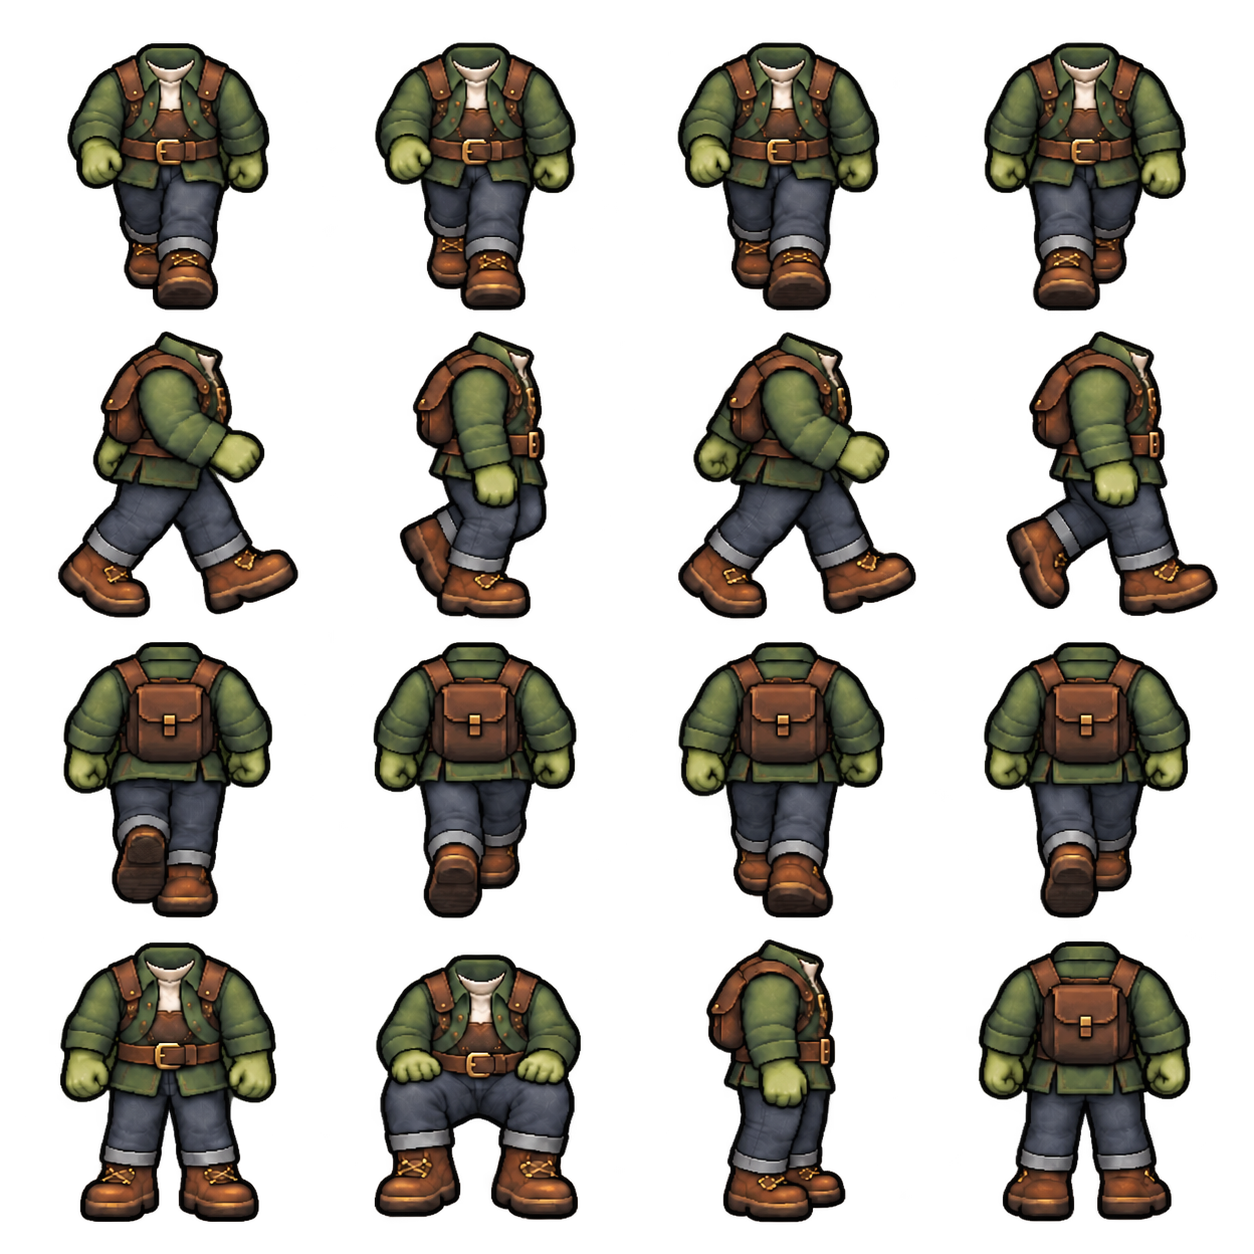
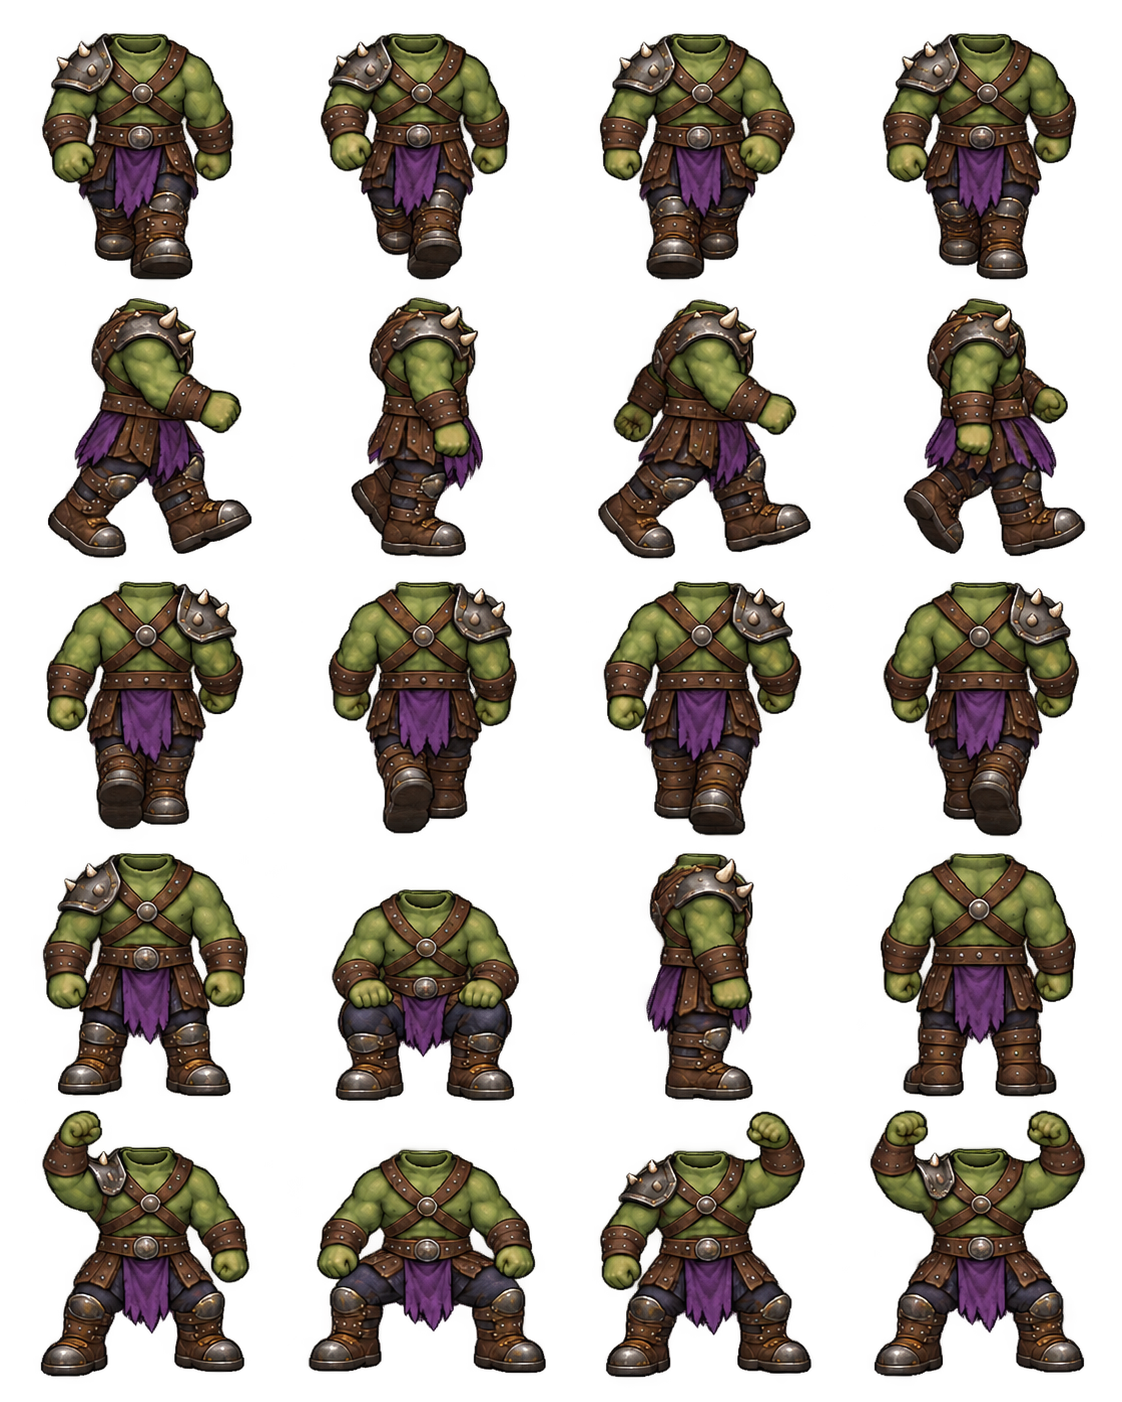
feat: give woman and orc distinct character artwork

diff --git a/public/avatar-art.js b/public/avatar-art.js
@@ -1,8 +1,8 @@
 // Shared artwork for the lobby, office and prototype; safe to import on the server.
-const artwork = Object.fromEntries(['human', 'orco', 'lagarto', 'robot', 'fantasma'].map(kind => [kind, { cells:[], sideCells:[], danceCells:[] }]))
+const artwork = Object.fromEntries(['human', 'mujer', 'orco', 'lagarto', 'robot', 'fantasma'].map(kind => [kind, { cells:[], sideCells:[], danceCells:[] }]))
 const tinted = new Map()
 let danceLoading
-const artKind = kind => kind === 'hombre' || kind === 'mujer' ? 'human' : kind
+const artKind = kind => kind === 'hombre' ? 'human' : kind
 
 export const walkFrame = (walk, direction) => Math.floor(walk * (direction === 'left' || direction === 'right' ? .7 : .8)) % 4
 export function transformDanceHead(ctx, kind, dancing, sitting, time, x, y) {
@@ -20,7 +20,7 @@ export function movementDirection(dx, dy, previous = 'front') {
   return Math.abs(dx) > Math.abs(dy) ? dx < 0 ? 'left' : 'right' : dy < 0 ? 'back' : 'front'
 }
 
-function measureCells(image, columns, rows, target, columnEdges, raisedArms = false) {
+function measureCells(image, columns, rows, target, columnEdges, raisedArms = false, rowEdges) {
   // Measure each transparent cell once; keep source proportions and a shared scale.
   const sample = document.createElement('canvas')
   sample.width = image.width; sample.height = image.height
@@ -28,8 +28,8 @@ function measureCells(image, columns, rows, target, columnEdges, raisedArms = fa
   context.drawImage(image, 0, 0)
   const { data } = context.getImageData(0, 0, image.width, image.height)
   for (let row = 0; row < rows; row++) for (let col = 0; col < columns; col++) {
-    const sx = Math.floor((columnEdges?.[col] ?? col / columns) * image.width), sy = Math.floor(row * image.height / rows)
-    const w = Math.floor((columnEdges?.[col + 1] ?? (col + 1) / columns) * image.width) - sx, h = Math.floor((row + 1) * image.height / rows) - sy
+    const sx = Math.floor((columnEdges?.[col] ?? col / columns) * image.width), sy = Math.floor(rowEdges?.[row] ?? row * image.height / rows)
+    const w = Math.floor((columnEdges?.[col + 1] ?? (col + 1) / columns) * image.width) - sx, h = Math.floor(rowEdges?.[row + 1] ?? (row + 1) * image.height / rows) - sy
     let left = w, top = h, right = 0, bottom = 0
     for (let y = 0; y < h; y++) for (let x = 0; x < w; x++) {
       if (data[((sy + y) * image.width + sx + x) * 4 + 3] < 32) continue
@@ -68,14 +68,15 @@ function loadDanceArt() {
       try {
         // Row gutters are measured from the shared five-character dance sheet.
         const edges = [0, 282, 546, 808, 1095, 1402]
-        Object.values(artwork).slice(0, 4).forEach((art, row) => {
+        for (const [kind, row] of [['human', 0], ['lagarto', 2], ['robot', 3]]) {
+          const art = artwork[kind]
           const canvas = document.createElement('canvas')
           canvas.width = image.width; canvas.height = edges[row + 1] - edges[row]
           canvas.src = `${image.src}#${row}`
           canvas.getContext('2d').drawImage(image, 0, edges[row], image.width, canvas.height, 0, 0, image.width, canvas.height)
           measureCells(canvas, 4, 1, art.danceCells, [0, .273, .5, .744, 1], true)
           art.danceAtlas = canvas
-        })
+        }
         resolve(true)
       } catch { resolve(false) }
     }
@@ -89,14 +90,23 @@ export function loadAvatarArt(kind) {
   if (!kind) return Promise.all(Object.keys(artwork).map(loadAvatarArt)).then(results => results.every(Boolean))
   const name = artKind(kind), art = artwork[name]
   if (!art) return Promise.resolve(false)
-  const sources = [[`${name}-atlas.png`, 4, art.cells]]
+  const completeAtlas = name === 'mujer' || name === 'orco'
+  const rowEdges = name === 'mujer' ? [0, 259, 500, 742, 978, 1254] : completeAtlas ? [0, 288, 570, 844, 1105, 1402] : undefined
+  const sources = [[`${name}-atlas.png`, completeAtlas ? 5 : 4, art.cells]]
   if (name === 'fantasma') sources.push(['fantasma-metal-dance.png', 1, art.danceCells, [0, 564 / 2172, 1108 / 2172, 1608 / 2172, 1], true])
-  if (name !== 'fantasma') sources.push([`${name}-side-walk.png`, 2, art.sideCells, [0, .27, .52, .755, 1]])
-  return art.loading ??= Promise.all([loadDanceArt(), ...sources.map(([file, rows, target, edges, raisedArms], index) => new Promise((resolve, reject) => {
+  if (name !== 'fantasma') sources.push([`${name}-side-walk.png`, name === 'mujer' ? 1 : 2, art.sideCells, name === 'mujer' ? [0, 586 / 2172, 1048 / 2172, 1692 / 2172, 1] : [0, .27, .52, .755, 1]])
+  return art.loading ??= Promise.all([completeAtlas || name === 'fantasma' ? true : loadDanceArt(), ...sources.map(([file, rows, target, edges, raisedArms], index) => new Promise((resolve, reject) => {
     const image = new Image()
     if (raisedArms) art.danceAtlas = image; else if (index) art.sideAtlas = image; else art.atlas = image
     image.onload = () => {
-      try { measureCells(image, 4, rows, target, edges, raisedArms); resolve() } catch (error) { reject(error) }
+      try {
+        measureCells(image, 4, rows, target, edges, raisedArms || completeAtlas, rows === 5 ? rowEdges : undefined)
+        if (rows === 5) {
+          art.danceCells.push(...art.cells.splice(16))
+          art.danceAtlas = image
+        }
+        resolve()
+      } catch (error) { reject(error) }
     }
     image.onerror = reject
     image.src = `/assets/${file}`
@@ -115,14 +125,14 @@ export function coloredImage(image, color, kind) {
   const rgb = color.match(/\w\w/g).map(channel => parseInt(channel, 16))
   for (let i = 0; i < pixels.data.length; i += 4) {
     const [r, g, b, alpha] = pixels.data.subarray(i, i + 4)
-    // Recolor the robe or green material while preserving texture and luminance.
-    const material = kind === 'fantasma' ? b > r * 1.05 && r > g * 1.03 : g > r * 1.03 && r > b * 1.1
-    if (!alpha || !material || kind === 'orco' && b < r * .62) continue
+    // Recolor cloth while preserving skin, leather, texture and luminance.
+    const material = kind === 'fantasma' || kind === 'orco' ? b > r * 1.05 && r > g * 1.03 : g > r * 1.03 && r > b * 1.1
+    if (!alpha || !material) continue
     const light = g / 138
     for (let c = 0; c < 3; c++) pixels.data[i + c] = Math.min(255, rgb[c] * light)
   }
   ctx.putImageData(pixels, 0, 0)
-  // The fixed assets and five outfit colors bound this cache to 70 entries.
+  // The fixed assets and five outfit colors bound this cache to 75 entries.
   tinted.set(key, canvas)
   return canvas
 }
@@ -131,7 +141,7 @@ export function drawAvatarBody(ctx, px, py, scale, walk, sitting, options = {}) 
   const kind = options.kind ?? 'hombre'
   loadAvatarArt(kind)
   const art = artwork[artKind(kind)]
-  if (!art || art.cells.length !== 16 || artKind(kind) !== 'fantasma' && art.sideCells.length !== 8) return null
+  if (!art || art.cells.length !== 16 || artKind(kind) !== 'fantasma' && ![4, 8].includes(art.sideCells.length)) return null
   const { cells, sideCells, danceCells, atlas, sideAtlas, danceAtlas } = art
   const dancing = options.dancing && !sitting
   if (dancing && danceCells.length !== 4) return null
@@ -140,14 +150,14 @@ export function drawAvatarBody(ctx, px, py, scale, walk, sitting, options = {}) 
   const frame = walkFrame(walk, direction)
   const row = direction === 'back' ? 2 : direction === 'front' ? 0 : 1
   const lateral = moving && row === 1 && sideCells.length > 0
-  const crop = dancing ? danceCells[Math.floor((options.time ?? 0) * 4) % 4] : lateral ? sideCells[frame * 2] : cells[sitting ? 13 : moving ? row * 4 + frame : row === 2 ? 15 : row === 0 ? 12 : 14]
-  const ratio = scale * (dancing ? 16 / (danceCells[0][3] - danceCells[0].neckY) : sitting ? 12 / cells[13][3] : 16 / (lateral ? sideCells[0][3] : cells[12][3]))
+  const crop = dancing ? danceCells[Math.floor((options.time ?? 0) * 4) % 4] : lateral ? sideCells[frame * (sideCells.length / 4)] : cells[sitting ? 13 : moving ? row * 4 + frame : row === 2 ? 15 : row === 0 ? 12 : 14]
+  const ratio = scale * (dancing ? 16 / (danceCells[0][3] - danceCells[0].neckY) : sitting ? 12 / (cells[13][3] - (cells[13].neckY ?? 0)) : 16 / (lateral ? sideCells[0][3] - (sideCells[0].neckY ?? 0) : cells[12][3] - (cells[12].neckY ?? 0)))
   const width = crop[2] * ratio, height = crop[3] * ratio
-  const neckY = dancing ? crop.neckY * ratio : 0
+  const neckY = (crop.neckY ?? 0) * ratio
   const offset = scale * (sitting ? 12 : 16) - height + neckY
   ctx.save()
   ctx.translate(px + 6 * scale, py + offset)
-  if (!sitting && (direction === 'left' || moving && row !== 1 && frame >= 2)) ctx.scale(-1, 1)
+  if (!sitting && (direction === 'left' || moving && row !== 1 && frame >= 2 && kind !== 'mujer' && kind !== 'orco')) ctx.scale(-1, 1)
   ctx.imageSmoothingEnabled = false
   ctx.drawImage(coloredImage(dancing ? danceAtlas : lateral ? sideAtlas : atlas, options.color, kind), ...crop, -crop.neckX * ratio, -neckY, width, height)
   ctx.restore()

diff --git a/tests/avatar-art.test.js b/tests/avatar-art.test.js
@@ -57,3 +57,19 @@ test('only a dancing ghost headbangs, with a fixed collar and static reduced mot
   expect(calls[2][2]).toBeCloseTo(.89)
   expect(calls[3]).toEqual(['translate', -50, -96])
 })
+
+
+test('orc outfit colors change the purple tabard without tinting skin or leather', () => {
+  const previous = globalThis.document
+  const pixels = new Uint8ClampedArray([100, 130, 80, 255, 150, 80, 210, 255, 110, 80, 50, 255])
+  globalThis.document = { createElement:() => ({ getContext:() => ({ drawImage() {}, getImageData:() => ({ data:pixels }), putImageData() {} }) }) }
+  try {
+    coloredImage({ src:'orc-material-regression', width:3, height:1 }, '#568fae', 'orco')
+    expect([...pixels.slice(0, 4)]).toEqual([100, 130, 80, 255])
+    expect([...pixels.slice(4, 8)]).not.toEqual([150, 80, 210, 255])
+    expect([...pixels.slice(8, 12)]).toEqual([110, 80, 50, 255])
+  } finally {
+    if (previous === undefined) delete globalThis.document
+    else globalThis.document = previous
+  }
+})

diff --git a/design-qa.md b/design-qa.md
@@ -131,3 +131,14 @@ The ghost now has a separate four-pose atlas with rock hand gestures, hunched sh
 
 Reviewed the actual prototype recording under `/tmp/ghost-metal-video/` and its eight-frame motion strip `/tmp/ghost-metal-motion.png`: the face stays attached, all four silhouettes are complete, and robe/head movement is visible at office scale. Used the existing Node Playwright recorder because the Watch Skill loop command reports its missing Python Playwright dependency. Atlas gutters are measured to avoid clipping raised fingers. Focused dance browser checks and 29 Bun tests (7,378 assertions in an isolated source copy) pass.
 The full office browser check also passes, including local/remote webcam head rotation and stopping headbanging under reduced motion. Prototype controls, all six walking cycles, and existing character colors/accessories pass without page errors. Production build passes.
+
+
+## Distinct woman and fantasy orc
+
+The user reported identical human bodies when both use Ocean and an orc wearing modern clothing. Woman now has her own atlas: fitted dress, cream blouse sleeves, belt, leggings and ankle boots. Orc now has a broad muscular green body, leather harness/bracers, iron shoulder armor, a purple tabard and medieval boots. Recoloring changes the orc cloth without tinting green skin or leather. The webcam face is unchanged. This supersedes the earlier shared-human-body design.
+
+Both have their own front/back, idle, seated and dance poses. Lateral sheets preserve reciprocal arm swing; rejected repeated-arm and three-quarter iterations. Explicit atlas gutters prevent adjacent fists or boots entering another pose. Collar anchors accommodate shoulder armor and raised hands. Four played poses retain the existing eight vertical and seven lateral changes per second.
+
+Evidence: `/tmp/redesign-lobby.png` shows all characters with Ocean selected; `/tmp/redesign-poses.png` shows all 20 rendered poses of each changed character. Recorded the running prototype at normal speed in `/tmp/redesign-motion-video/`, inspected `/tmp/redesign-woman-walk.png` and `/tmp/redesign-orc-walk.png`, and checked actual office captures from the multiplayer browser test. Bodies remain distinct at lobby scale and the face stays attached throughout walking and dancing.
+
+The same-color woman regression and orc skin-preservation regression both failed before the fix and pass now. All three browser scripts pass: preview controls, all six characters, local/remote movement and dancing, seated precedence, colors/accessories, webcam, mobile and reduced motion. Thirty Bun tests pass with 7,381 assertions in an isolated source copy; the existing local admin credential remains untouched. Production build and diff checks pass. Independent code review found no actionable issues.
